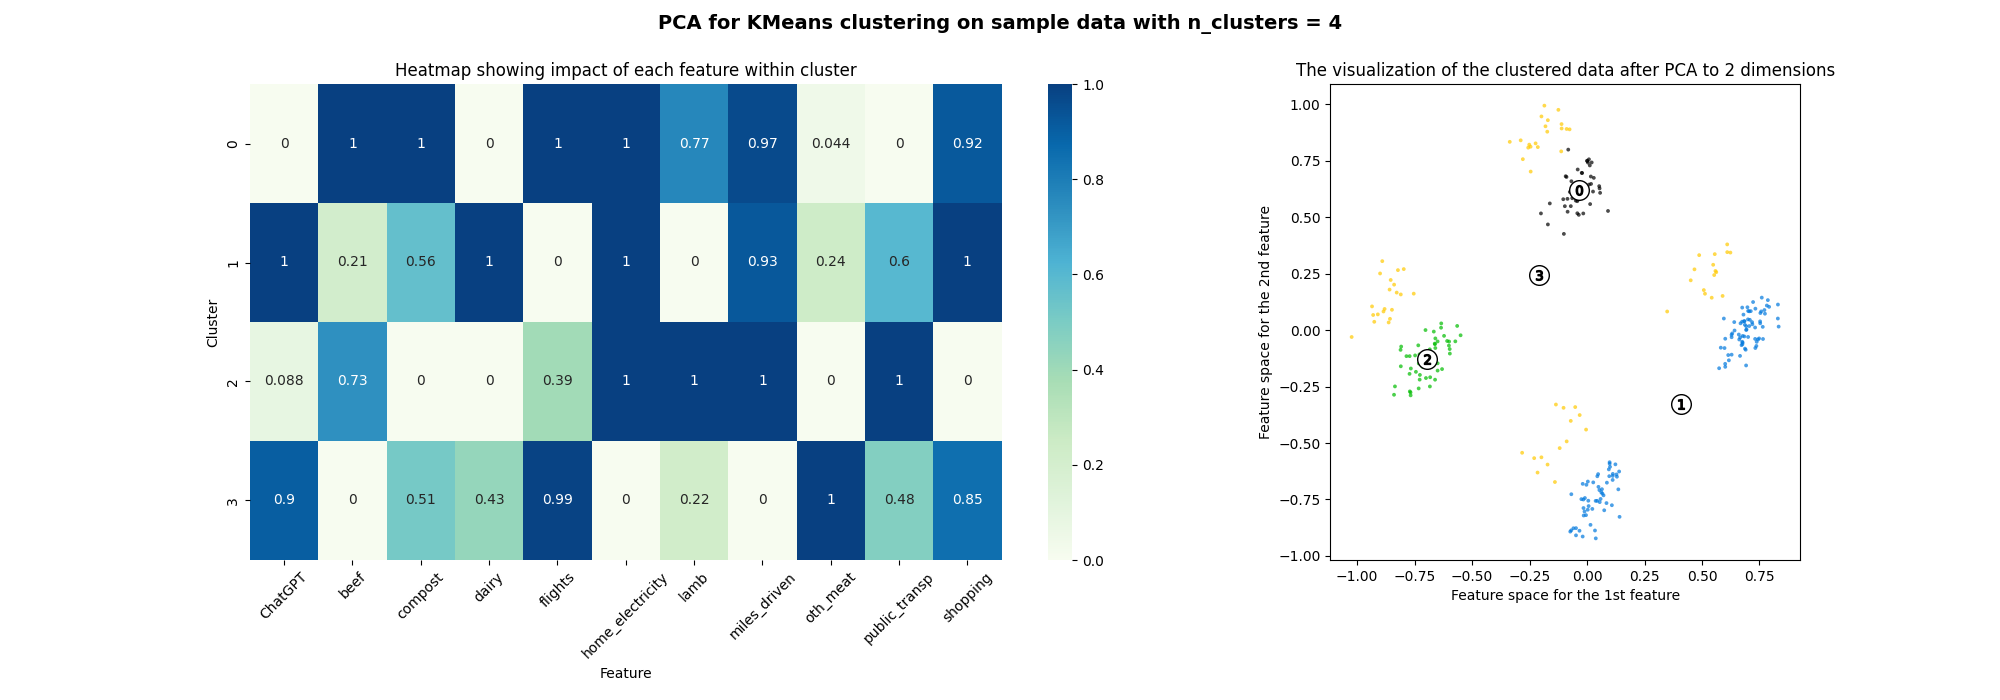
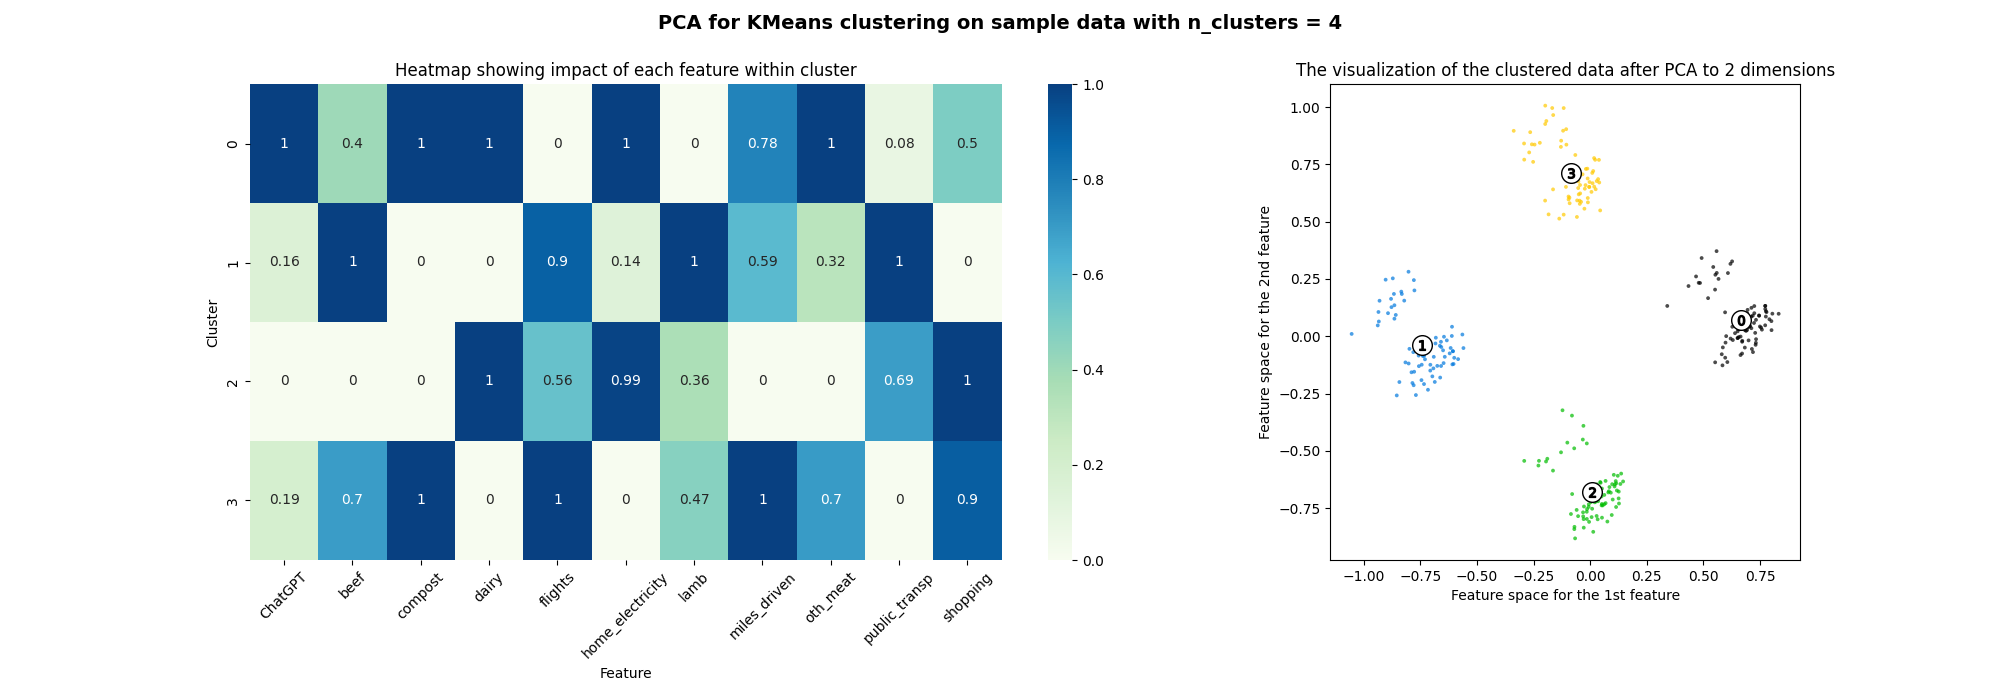
Combined model training into one method, fixed return/dup entry error

diff --git a/myapp/templates/myapp/quiz_thanks.html b/myapp/templates/myapp/quiz_thanks.html
@@ -148,7 +148,6 @@
     </div>
 
         <h2>(beta) Your predicted cluster: {{user_cluster}}</h2>
-        <p> Cluster Heatmap: </p>
         <img src="{% static 'myapp/heatmap.png' %}" alt="Heatmap" class="cluster-info">
 
 </body>

diff --git a/myapp/scripts/cluster_input.py b/myapp/scripts/cluster_input.py
@@ -28,6 +28,7 @@ class ClusteringModelManager:
         self.df = None
         self.columns_to_drop = ['car_type','age','location']
 
+
     #preprocess input data for model, retrieve all responses in database and pivot into one column per feature 
     #don't need self for static functions vs instance method
     def get_cluster_data(self):
@@ -48,6 +49,7 @@ class ClusteringModelManager:
 
         return df_pivot
 
+
     #retrieve single user data
     def get_user_data(self, session_id):
         # retrieve choices, sum, save to model?, return
@@ -67,6 +69,7 @@ class ClusteringModelManager:
         df = pd.pivot(df, index='session_id', columns='question_short_name', values='emission')
         return df
     
+
     #NOTE only for INDIVIDUAL user data, loads previously created minmaxscaler from train_model()
     def preprocess_user_data(self, df):
         #preprocess: remove session_id as first column, normalize
@@ -80,69 +83,7 @@ class ClusteringModelManager:
         df_input = loaded_scaler.transform(df_input)
 
         return df_input
-
-    #TODO: keep this? what to show in results page?
-    #train and save model locally, storing user labels back to Quiz_User
-    def train_model(self):
-        #preprocess
-        df = self.get_cluster_data()
-        df = pd.DataFrame(df)
-        df = df.drop(columns=self.columns_to_drop) 
-
-        #total by session_id
-        total = df.sum(axis=1)
-
-        #create and save scaler
-        df_input = df.reset_index(drop=True) #drop session_ids now
-        mmscaler = MinMaxScaler()
-        df_input = mmscaler.fit_transform(df_input)
-        with open(self.MinMaxScaler_path,'wb') as file:
-            pickle.dump(mmscaler,file)
-
-        # train model
-        kmeans = KMeans(n_clusters=4,random_state=0)
-        cluster_labels = kmeans.fit_predict(df_input)
-
-        df['cluster_label'] = cluster_labels
-        df['total_emission'] = total
-        # print(df.head)
-
-        # # NOT necessary?? save labels to Quiz_User model; 
-        # # TODO apparently iterrows() is very slow..suggestion later to use bulk_update
-        # for index, row in df.iterrows():
-        #     try:
-        #         # print(df.columns.tolist())
-        #         # print(df.index.name)
-        #         print()
-        #         user = Quiz_User.objects.get(pk=row.name)
-        #         user.cluster_label = int(row['cluster_label'])
-        #         user.total_emission = round(row['total_emission'])
-        #         user.save()
-        #         print(f"User {row.name} found and updated")
-        #     except Quiz_User.DoesNotExist:
-        #         print(f"User {row.name} not found.")
-        
-        #save ml model locally for loading in view later
-        filename = self.model_path
-        with open(filename,'wb') as file:
-            pickle.dump(kmeans,file)
-
-        #create and save heatmap 
-        df = df.drop(columns=['total_emission'])
-        averages = df.groupby('cluster_label').mean()
-        # print(averages)
-        averages_scaled = MinMaxScaler().fit_transform(averages)
-        plt.figure(figsize=(11, 6))
-        sns.heatmap(averages_scaled, annot=True, xticklabels=averages.columns.tolist() ,cmap='GnBu')
-        plt.xticks(rotation=45)
-        plt.xlabel("Feature")
-        plt.ylabel("Cluster")
-        # plt.rcParams["figure.figsize"] = (6,13)
-        plt.subplots_adjust(bottom=0.3) 
-        # plt.show()
-        plt.savefig(self.heatmap_path)
-        plt.close()
-
+    
 
     #not necessary to calc total emission during model training?! only need to calc/retrieve the current active user
     def get_user_emission(self, session_id):

diff --git a/myapp/scripts/create_training_data.py b/myapp/scripts/create_training_data.py
@@ -7,6 +7,7 @@ import numpy as np
 import uuid
 import random
 from sklearn.decomposition import PCA
+import pickle
 
 import matplotlib
 matplotlib.use('Agg')
@@ -38,6 +39,9 @@ range_n_clusters = [2, 3, 4, 5, 6]
 
 silhouette_paths = 'myapp/static/myapp/silhouette'
 PCA_heatmap_path = 'myapp/static/myapp/PCA_heatmap.png'
+model_path = 'myapp/ml_models/cluster_model.pkl'
+heatmap_path = 'myapp/static/myapp/heatmap.png'
+MinMaxScaler_path = 'myapp/ml_models/mmscaler.pkl' 
 
 columns_to_drop = ['car_type','age','location']
 
@@ -131,7 +135,7 @@ def silhouette():
         plt.savefig(silhouette_paths + str(n_clusters) + '.png')
 
 
-#interpret/validation after picking num of clusters
+#run/save model and scaler, interpret/validation after picking num of clusters
 def PCA_heatmap(n_clusters=4):
     my_cluster = ClusteringModelManager()
     X = my_cluster.get_cluster_data()
@@ -141,17 +145,37 @@ def PCA_heatmap(n_clusters=4):
     X = X.reset_index(drop=True) 
     mmscaler = MinMaxScaler()
     X_input = mmscaler.fit_transform(X)
+    #save scaler
+    with open(MinMaxScaler_path,'wb') as file:
+            pickle.dump(mmscaler,file)
 
     kmeans = KMeans(n_clusters=n_clusters,random_state=0)
     cluster_labels = kmeans.fit_predict(X_input)
     X['cluster_label'] = cluster_labels
 
+    #save ml model locally for loading in view later
+    filename = model_path
+    with open(filename,'wb') as file:
+        pickle.dump(kmeans,file)
+    
+    #separate heatmap
+    averages = X.groupby('cluster_label').mean()
+    averages_scaled = MinMaxScaler().fit_transform(averages)
+    plt.figure(figsize=(10, 6))
+    sns.heatmap(averages_scaled, annot=True, xticklabels=averages.columns.tolist() ,cmap='GnBu')
+    plt.xticks(rotation=45)
+    plt.title("Heatmap showing impact of each feature within cluster", loc='center')
+    plt.xlabel("Feature")
+    plt.ylabel("Cluster")
+    plt.subplots_adjust(bottom=0.3) 
+    plt.savefig(heatmap_path)
+    plt.close()
+
+    #CREATE CHARTS
     fig, (ax1, ax2) = plt.subplots(1,2, width_ratios=[2,1])
     fig.set_size_inches(20, 7)
 
     #HEATMAP
-    averages = X.groupby('cluster_label').mean()
-    averages_scaled = MinMaxScaler().fit_transform(averages)
     sns.heatmap(averages_scaled, annot=True, xticklabels=averages.columns.tolist() ,cmap='GnBu', ax=ax1)
     ax1.tick_params(axis='x', labelrotation=45)
     ax1.set_title("Heatmap showing impact of each feature within cluster")

diff --git a/myapp/views.py b/myapp/views.py
@@ -60,15 +60,22 @@ def quiz_submit(request):
         
         else:
             user = Quiz_User.objects.get(session_id=session_id)
-
+        
         # print(f"User: {user.session_id}; Exists: {Quiz_User.objects.filter(session_id=session_id).exists()}; PK: {user.pk}")
-
+        
         selected_question = get_object_or_404(Quiz_Question, pk=question_id)
         selected_choice = get_object_or_404(Quiz_Choice, pk=choice_id)
         
         # print(f"Saving Response with user: {user}, question: {selected_question}, choice: {selected_choice}")
-        response = Quiz_Response(session_id=user, question=selected_question, choice=selected_choice)
-        response.save() 
+        answers_set = Quiz_Response.objects.filter(session_id=user, question=selected_question)
+        if answers_set.exists():
+            answers_set.delete()
+            response, created = Quiz_Response.objects.get_or_create(session_id=user, question=selected_question, choice=selected_choice)
+            response.save()
+
+        else:
+            response, created = Quiz_Response.objects.get_or_create(session_id=user, question=selected_question, choice=selected_choice)
+            response.save()
         
         #id__gt is id greater than
         current_order = getattr(selected_question, 'order')
@@ -81,7 +88,7 @@ def quiz_submit(request):
             #reverse() returns the URL from the URL name specified
             return HttpResponseRedirect(reverse('myapp:quiz_thanks')) 
      
-    return HttpResponseRedirect(reverse('myapp:quiz_thanks'))   
+    return HttpResponseRedirect(reverse('myapp:quiz_index'))   
 
 
 def quiz_thanks(request, session_id=None):   

diff --git a/myapp/scripts/results_page.py b/myapp/scripts/results_page.py
@@ -150,10 +150,11 @@ def generate_user_categories(session_id=None):
     
     colors = ['#F66D44', '#FEAE65', '#E6F69D', '#AADEA7', '#64C2A6', '#2D87BB']
 
-    fig, ax = plt.subplots(figsize=(5.5, 5))
+    fig, ax = plt.subplots(figsize=(6, 5))
     ax.pie(top_5, labels=top_5.index.tolist(), autopct='%1.0f%%', colors=colors, textprops={'color': '#343434', 'fontfamily':'Verdana'})
     ax.set_title('Your top 5 categories with the most impact', fontfamily='Verdana', color='#343434', ha='center', fontsize=15, fontweight='demibold')
-    plt.subplots_adjust(bottom=0.02, left=0.1) 
+    plt.subplots_adjust(bottom=0.02, left=0.1, right=0.9) 
+    plt.tight_layout()
     plt.savefig(user_top5_path, facecolor="#f6f6f6", edgecolor='none')
     plt.close()
 
